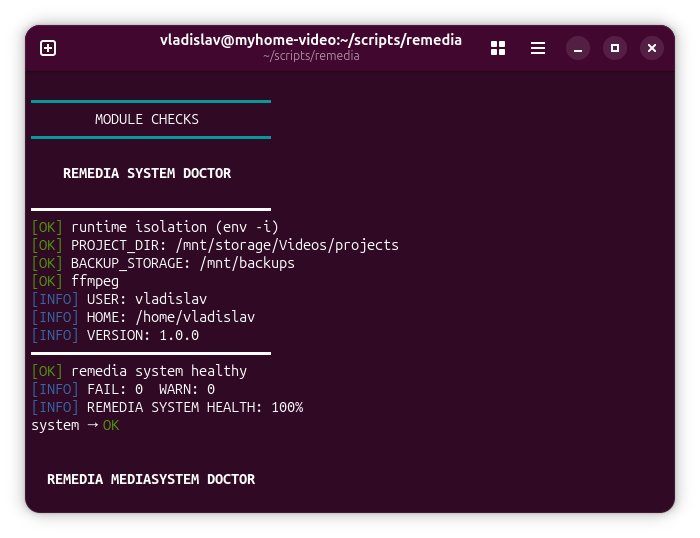
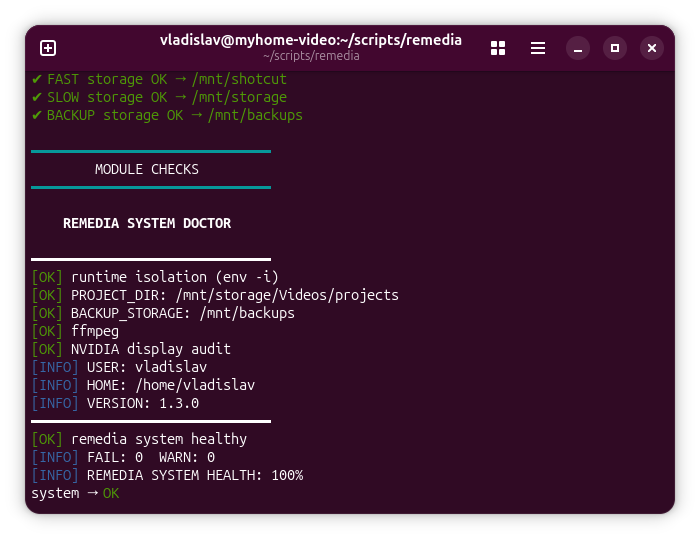
docs: post-release fixes

Changed region(s): [[0.03, 0.3866, 0.57, 0.9219], [0.03, 0.119, 0.45, 0.3569]]

diff --git a/docs/RU/making/README_REALISE_RU.md b/docs/RU/making/README_REALISE_RU.md
@@ -112,7 +112,7 @@ git push origin main
 git push origin v1.2.0
 ```
 - [ ] Откройте страницу создания релиза: `github.com/krashevski/remedia/releases/new`.
-- [ ] В Choose a tag выберите **существующий v1.2.0.Создать GitHub Release** . Заголовок: `Remedia 1.2.0`. Добавьте описание из `CHANGELOG.md`. отдельно выделив заметные изменения и инструкции обновленияэ, если они нужны.
+- [ ] В Choose a tag выберите **существующий v1.2.0.Создать GitHub Release** . Заголовок: `Remedia 1.2.0`. Добавьте описание из `CHANGELOG.md`. отдельно выделив заметные изменения и инструкции обновления, если они нужны.
 - [ ] Прикрепить проверенный `.deb` и файл SHA-256 либо указать хеш в заметках выпуска. Сверить пакет на странице релиза с локально проверенным файлом.
 - [ ] Проверьте черновик и нажмите Publish release.
 - [ ] После публикации проверить ссылку на релиз, скачивание пакета и совпадение `Version: 1.2.0`.

diff --git a/README.md b/README.md
@@ -219,7 +219,7 @@ Not just "workable," but **survivable and time-resistant**.
 <img src="docs/img/REMEDIA_SYSTEM_CENTER.png" width="45%"/> 
 <img src="docs/img/REMEDIA_HELP.png" width="45%"/> </p> 
 <p align="center"> 
-<img src="docs/img/REMEDIA_DOCTOR.png" width="45%"/>
+<img src="docs/img/REMEDIA_DOCTOR-1.png" width="45%"/>
 <img src="docs/img/MEDIASYSTEM.png" width="45%"/> </p> 
 <p align="center"> 
 <img src="docs/img/MEDIASYSTEM_SUMMARY.png" width="45%"/>
